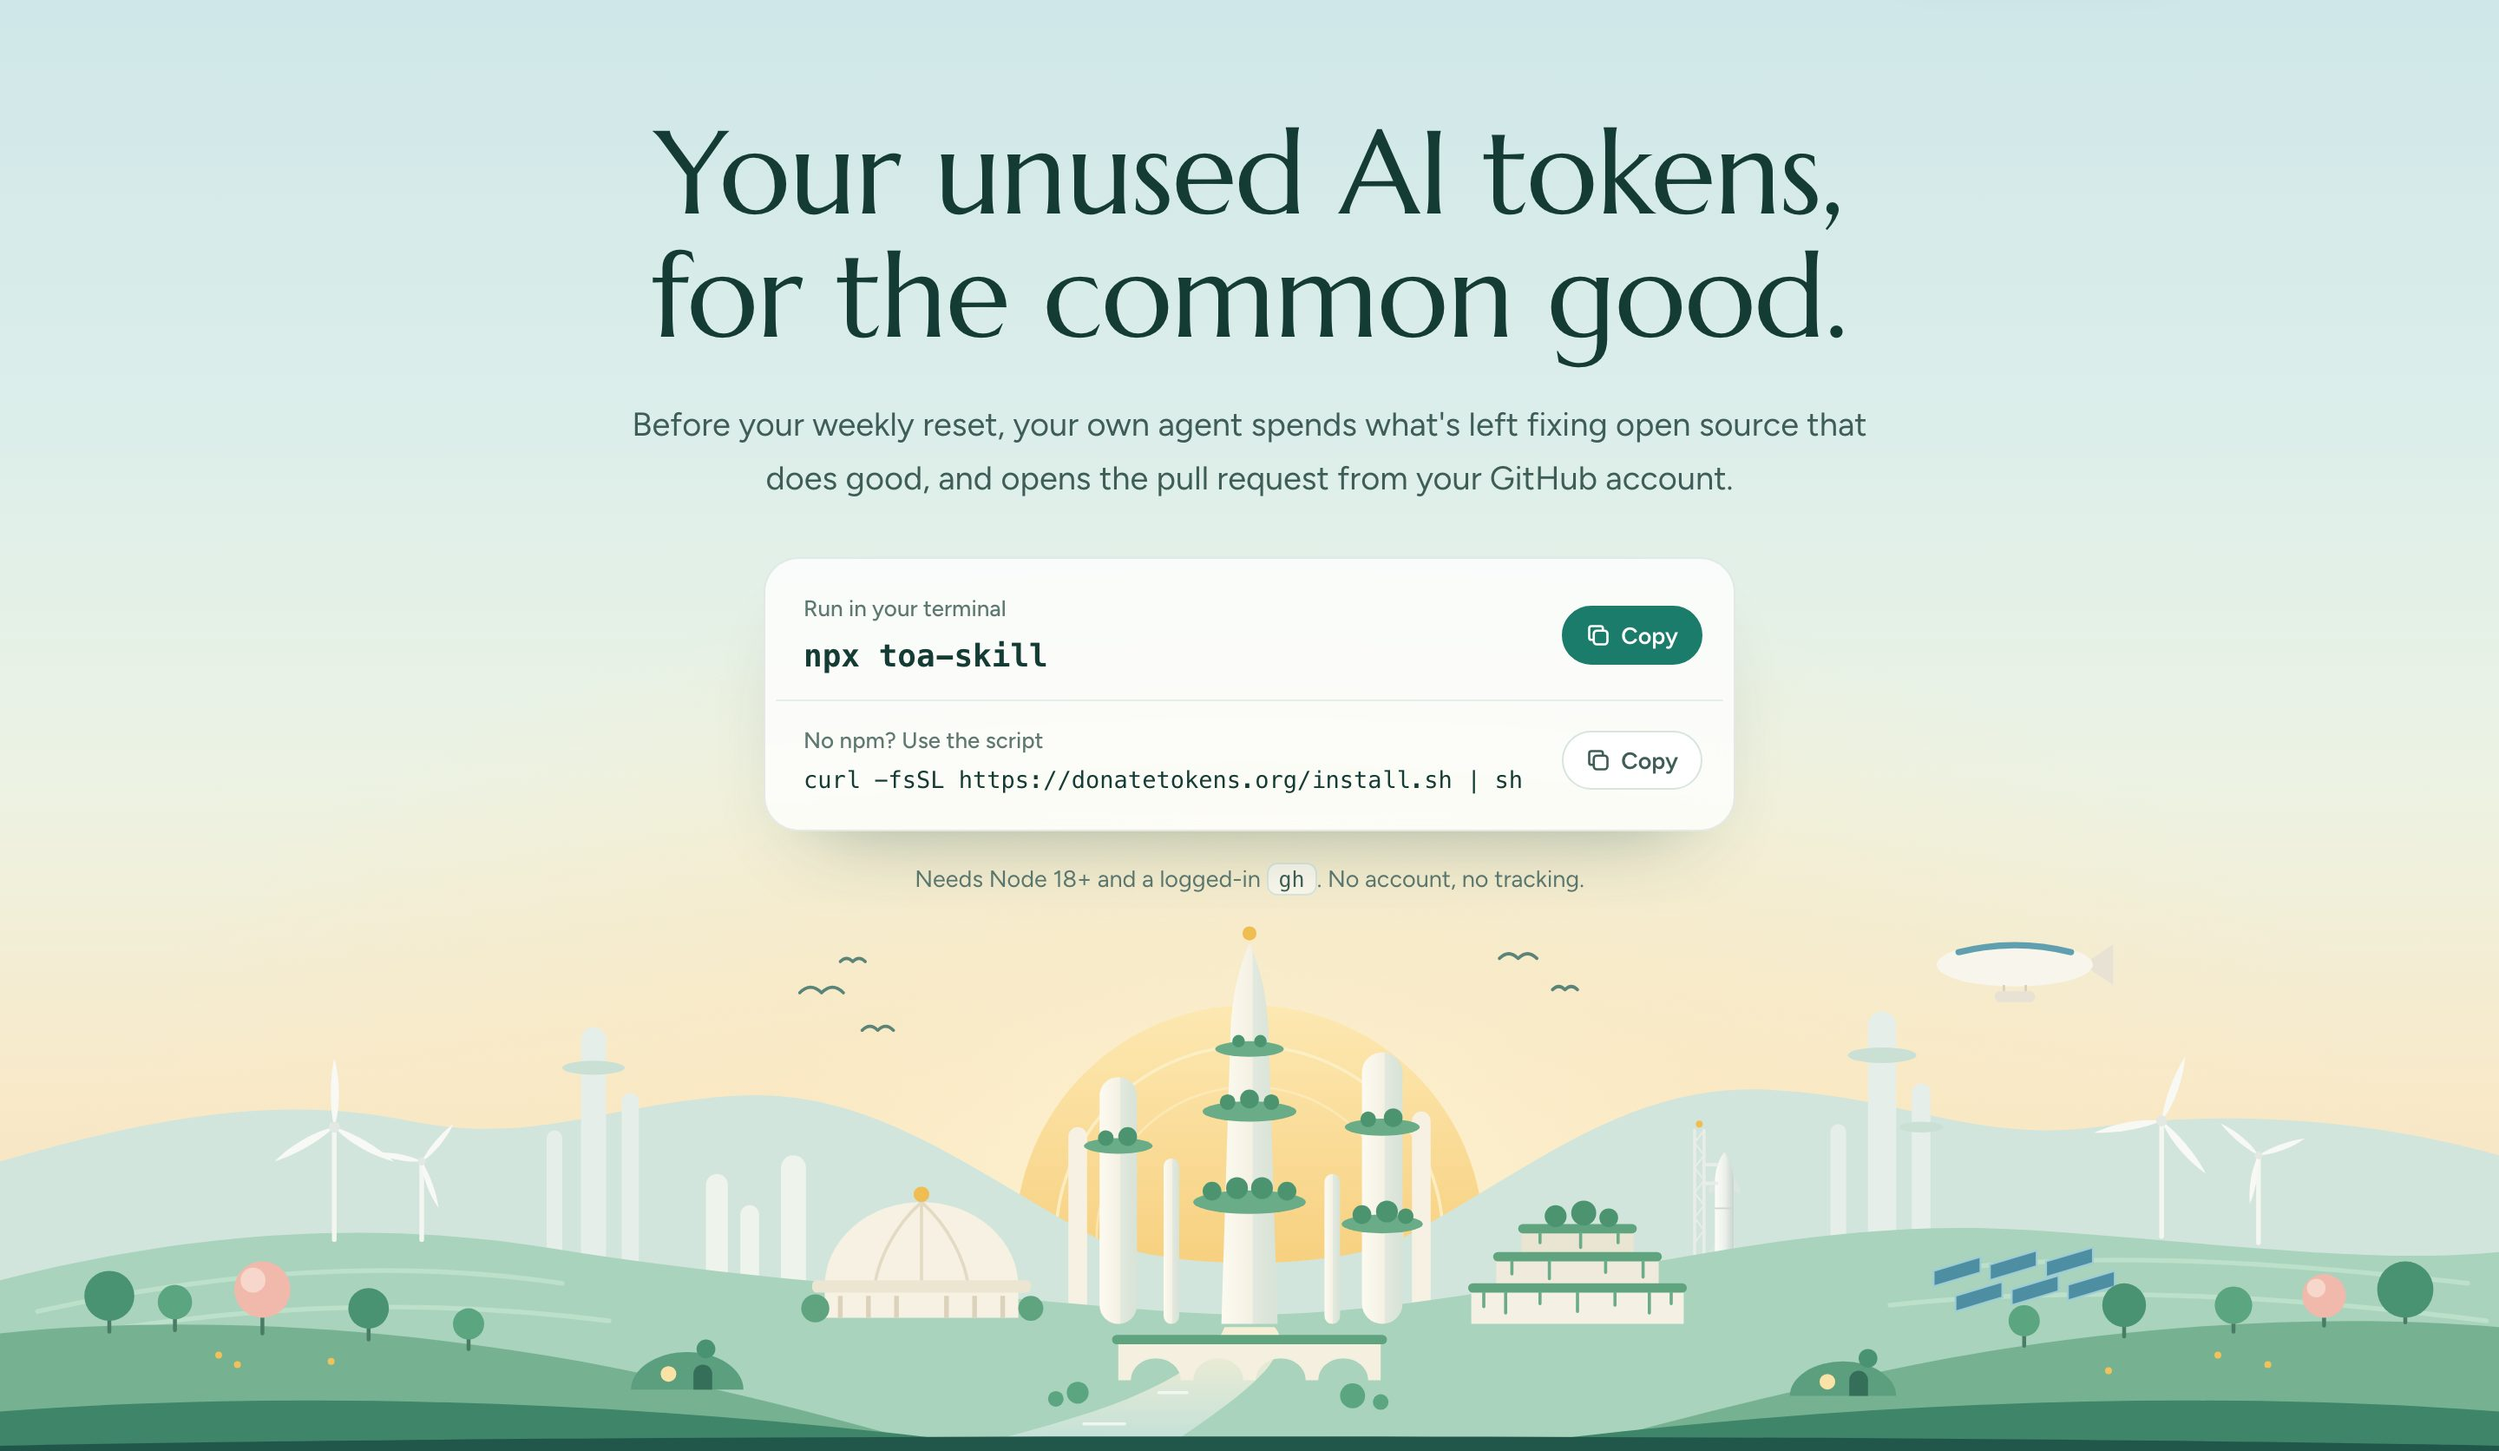
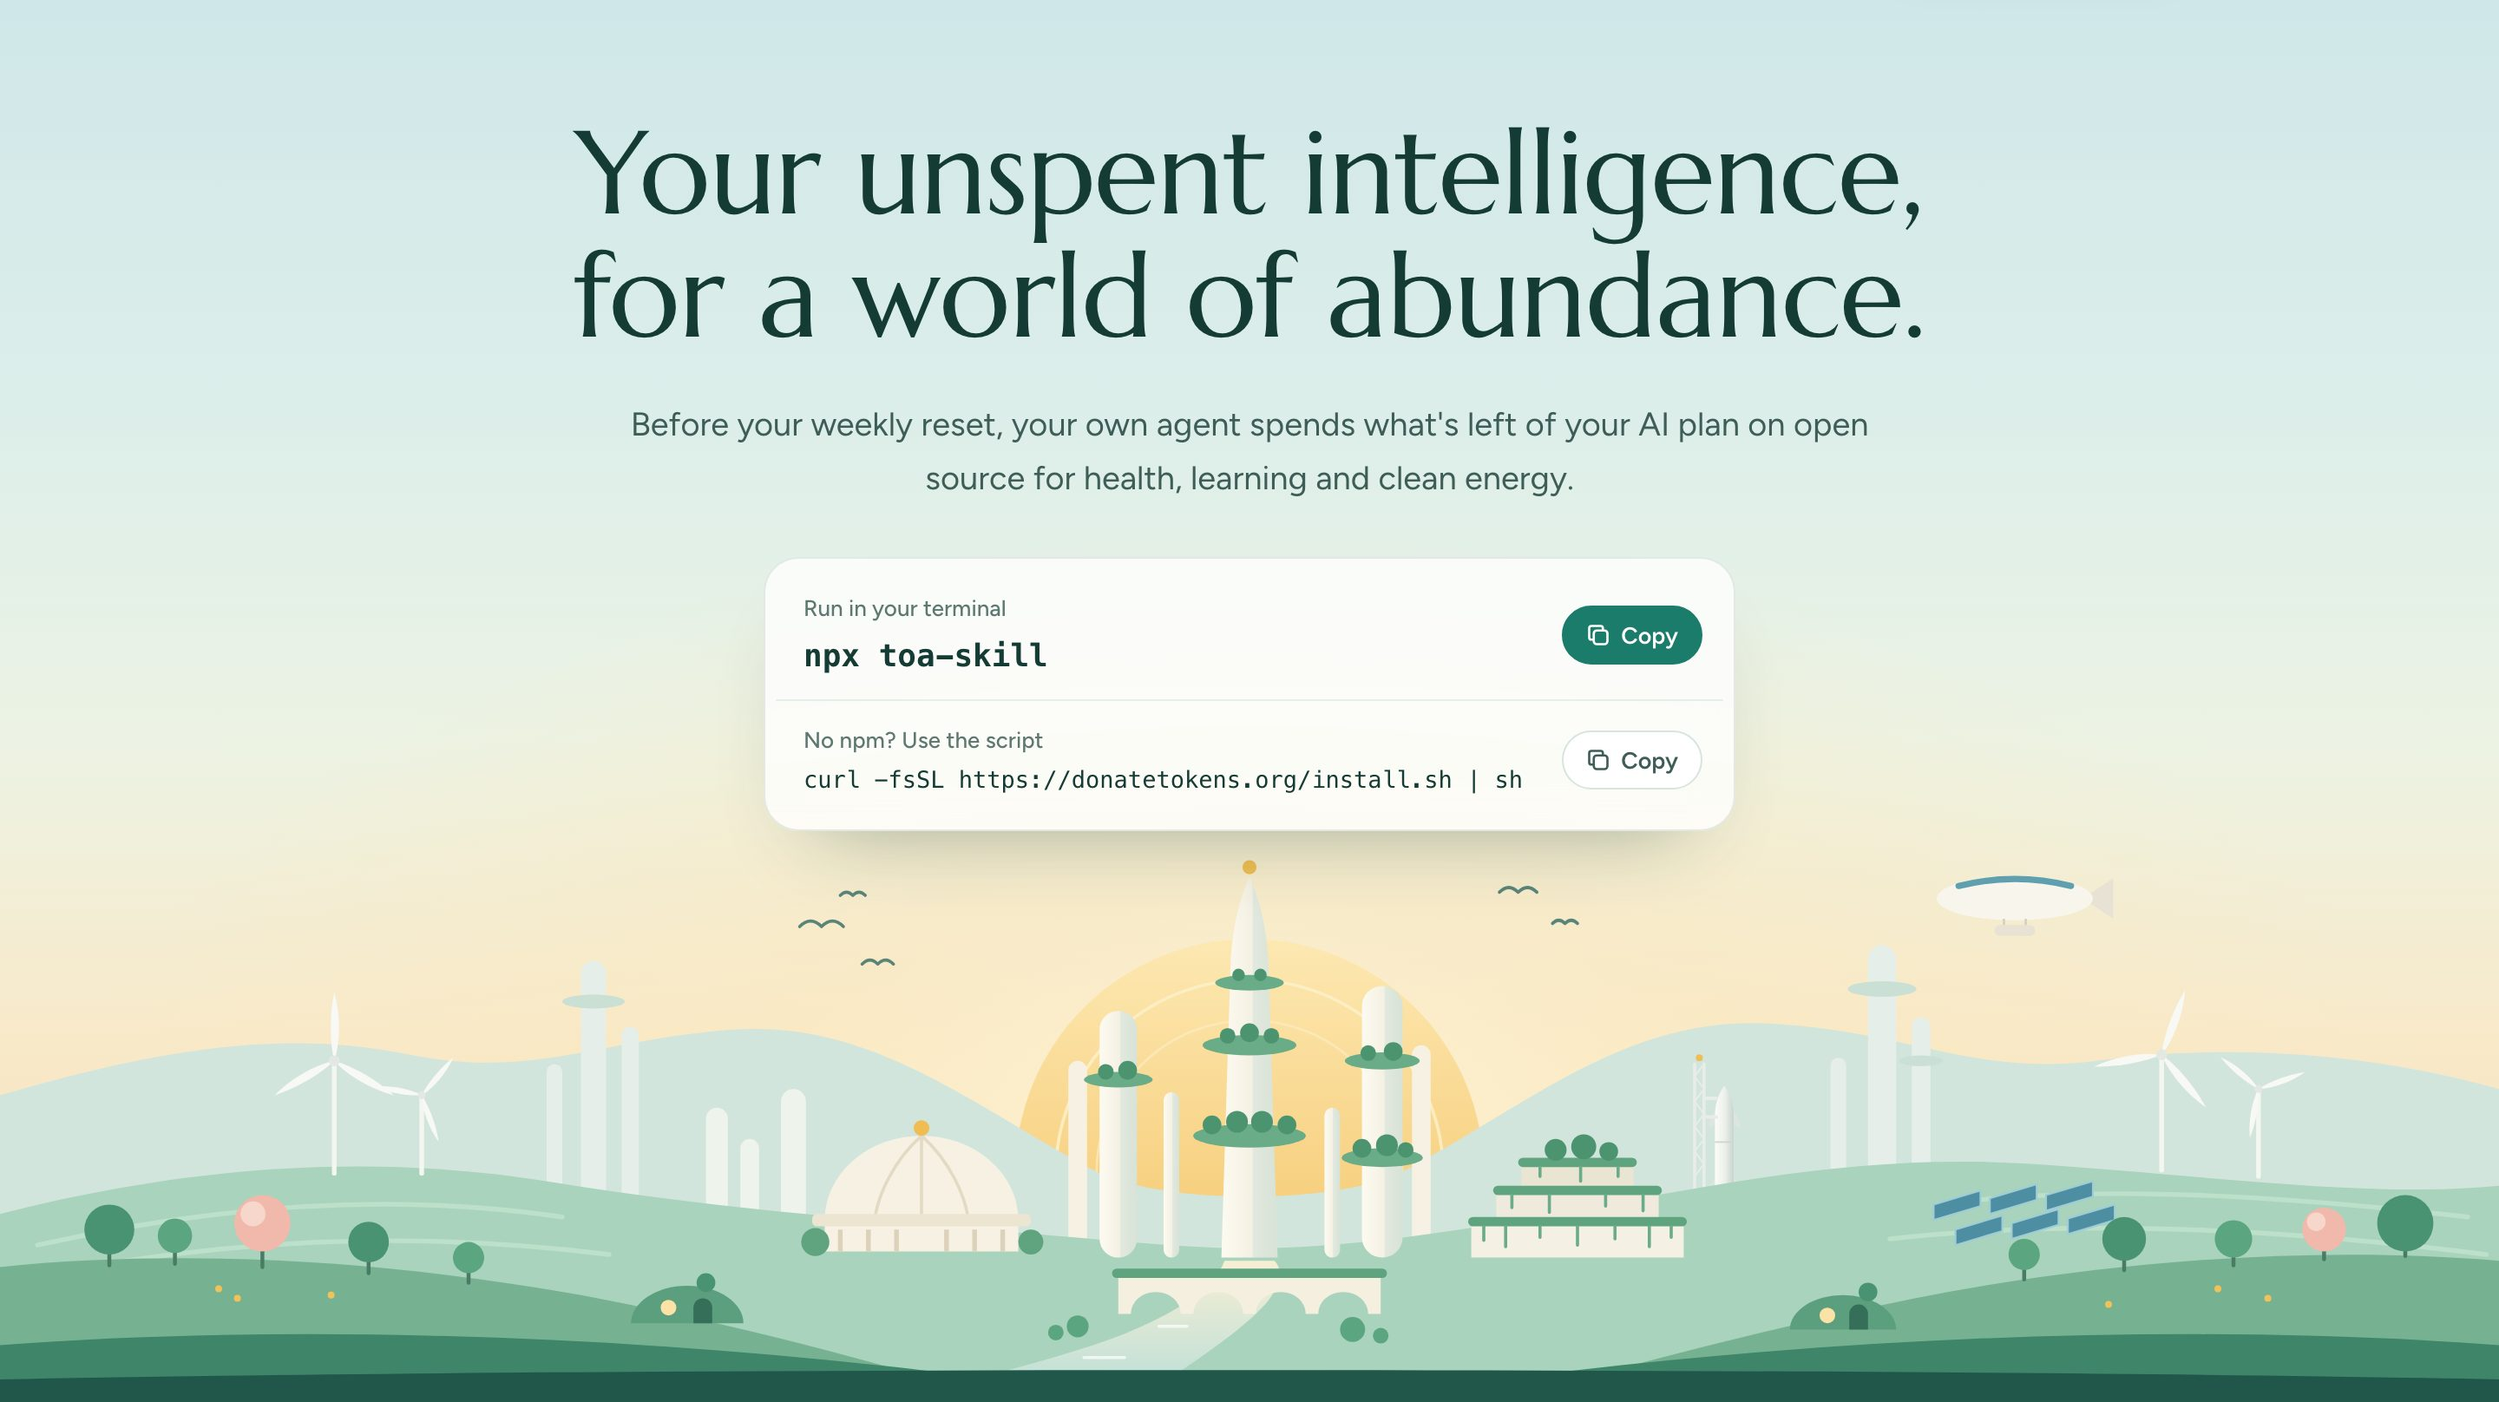
Align the README with the launch: unspent intelligence, a world of abundance

diff --git a/README.md b/README.md
@@ -1,10 +1,10 @@
-<p align="center"><a href="https://donatetokens.org"><img src="https://raw.githubusercontent.com/Gillinghammer/toa/main/docs/hero.jpg" alt="A solarpunk city at sunrise under the words: Your unused AI tokens, for the common good." width="100%"></a></p>
+<p align="center"><a href="https://donatetokens.org"><img src="https://raw.githubusercontent.com/Gillinghammer/toa/main/docs/hero.jpg" alt="A solarpunk city at sunrise under the words: Your unspent intelligence, for a world of abundance." width="100%"></a></p>
 
 # Tokens of Appreciation
 
-**Your unused AI tokens, for the common good.**
+**Your unspent intelligence, for a world of abundance.**
 
-Before your weekly reset, your own agent spends what's left fixing open source that does good, and opens the pull request from your GitHub account.
+Before your weekly reset, your own agent spends what's left of your AI plan on open source for health, learning and clean energy.
 
 ```sh
 npx toa-skill
@@ -16,15 +16,15 @@ Needs Node 18+ and a logged-in [`gh`](https://cli.github.com). No account, no tr
 
 ---
 
-Every week, the AI you paid for and didn't use expires. TOA spends it on open source that clinics, libraries and classrooms depend on.
+Intelligence is an awful thing to waste. Every week, the AI you paid for and didn't use expires. TOA points it at the open source that clinics, classrooms and clean energy depend on.
 
 ## How a donation works
 
 1. **Set it up once.** `npx toa-skill` adds TOA to the agent tools you already use, like Claude Code, Codex and Cursor, and asks which causes you care about and how long before your reset to start: 24, 8, 4 or 1 hour.
-2. **Your agent uses what's left.** Shortly before your plan's weekly usage resets, your agent picks an open issue in one of the curated projects and works on it with whatever usage you have left.
+2. **Your agent uses what's left.** Shortly before your plan's weekly usage resets, your agent picks an open issue in one of the curated projects and puts your leftover intelligence to work on it.
 3. **Maintainers get a pull request from you.** A second agent checks the work, then it's sent to the project from your GitHub account for the maintainers to review (or as a draft for you to approve, if you prefer). Unfinished work carries over to next week.
 
-## Where your tokens go
+## Where your intelligence goes
 
 A curated list of open source projects in health, education, climate, accessibility, open knowledge and financial inclusion, such as Open Library, OpenEMR, Kiwix, axe-core and Organic Maps. Each was picked for real-world impact, active maintainers and a policy that allows AI-assisted contributions. See them at [donatetokens.org](https://donatetokens.org/#projects) (or [/projects.json](https://donatetokens.org/projects.json)).
 
